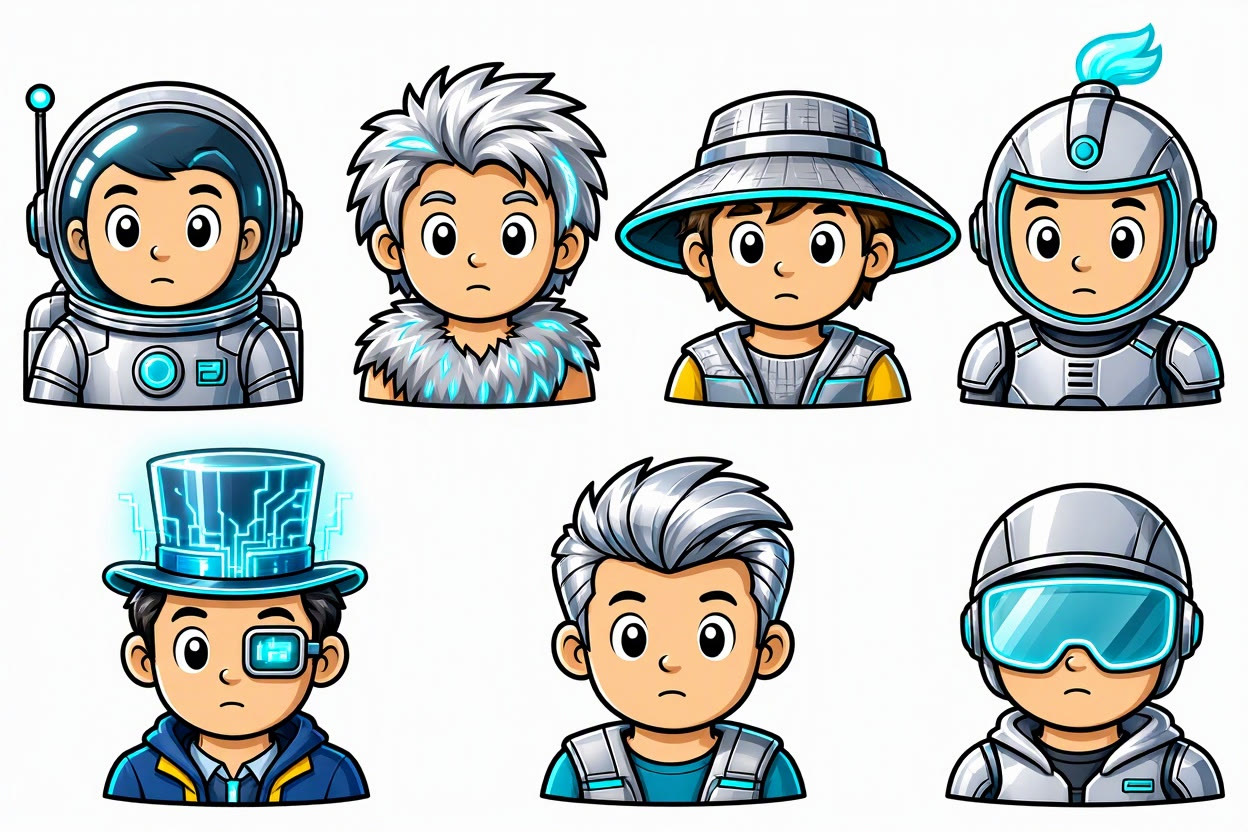
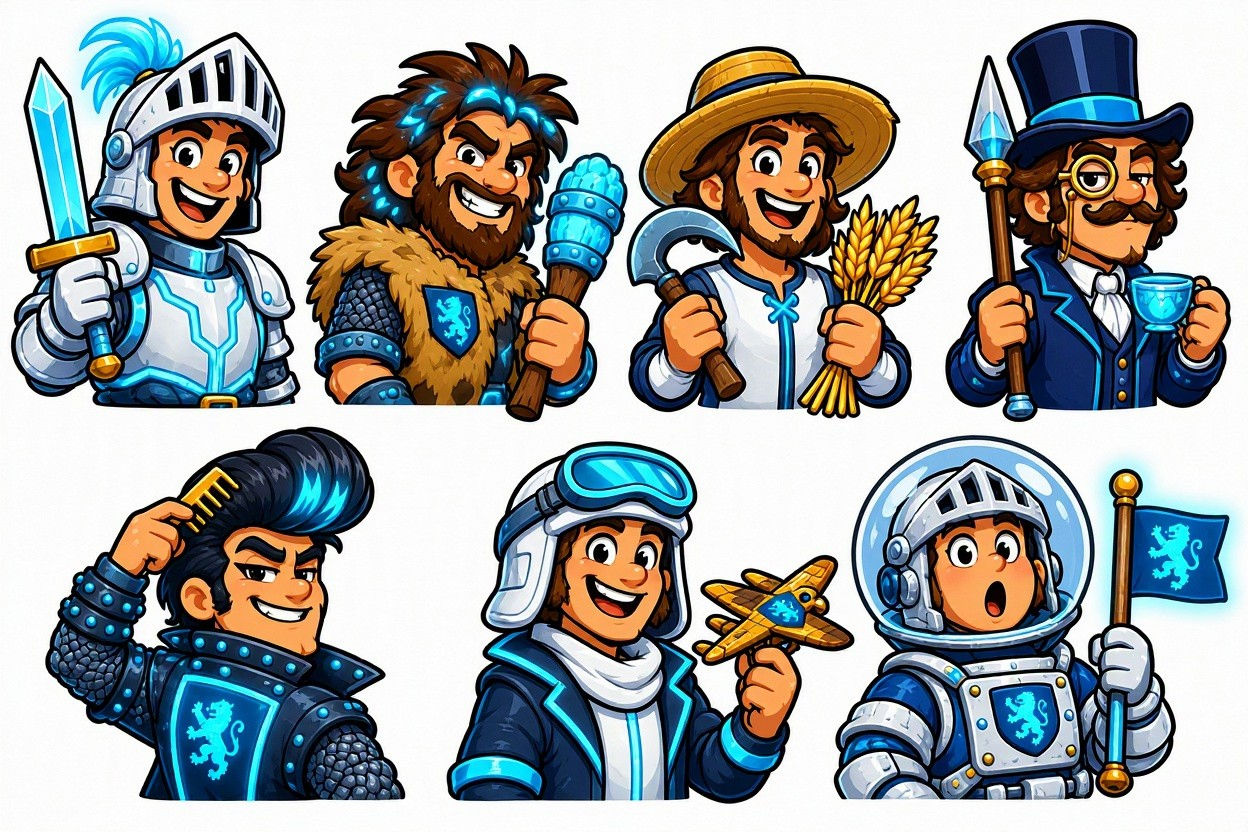
v0.1.221: new Future customer sheet

diff --git a/src/art.js b/src/art.js
@@ -10,6 +10,10 @@
 
 window.EraArt = (function () {
   const PORTRAIT = 320;
+  // Sheets whose figures aren't in the standard order: job of each figure in reading order.
+  const SHEET_JOBS = {
+    6: [2, 0, 1, 3, 4, 5, 6], // Future: Knight, Caveman, Farmer, Gentleman, Greaser, Pilot, Astronaut
+  };
 
   function preload(scene) {
     if (scene.textures.exists('cust_0_0')) return;
@@ -276,8 +280,11 @@ window.EraArt = (function () {
     if (scene.textures.exists('cust_0_0')) return buildSceneArt(scene);
     for (let look = 0; look < 7; look++) {
       const parts = sheetParts(scene, 'sheet_era' + look, [4, 3]);
-      const jobs = [look];
-      for (let j = 0; j < 7; j++) if (j !== look) jobs.push(j);
+      let jobs = SHEET_JOBS[look];
+      if (!jobs) {
+        jobs = [look];
+        for (let j = 0; j < 7; j++) if (j !== look) jobs.push(j);
+      }
       jobs.forEach((job, k) => {
         makePortrait(scene, look, job, parts && parts[k], false);
         makePortrait(scene, look, job, parts && parts[k], true);

diff --git a/src/config.js b/src/config.js
@@ -3,7 +3,7 @@
 // Tiers are 0-based everywhere: 0 Wheel, 1 Cart, 2 Carriage, 3 Bicycle, 4 Car, 5 Plane, 6 Rocket.
 
 window.ERA_POP_CONFIG = {
-  version: '0.1.220',
+  version: '0.1.221',
 
   // ---- Capsule (world units; the capsule is scaled to fit the screen) ----
   capsule: {
